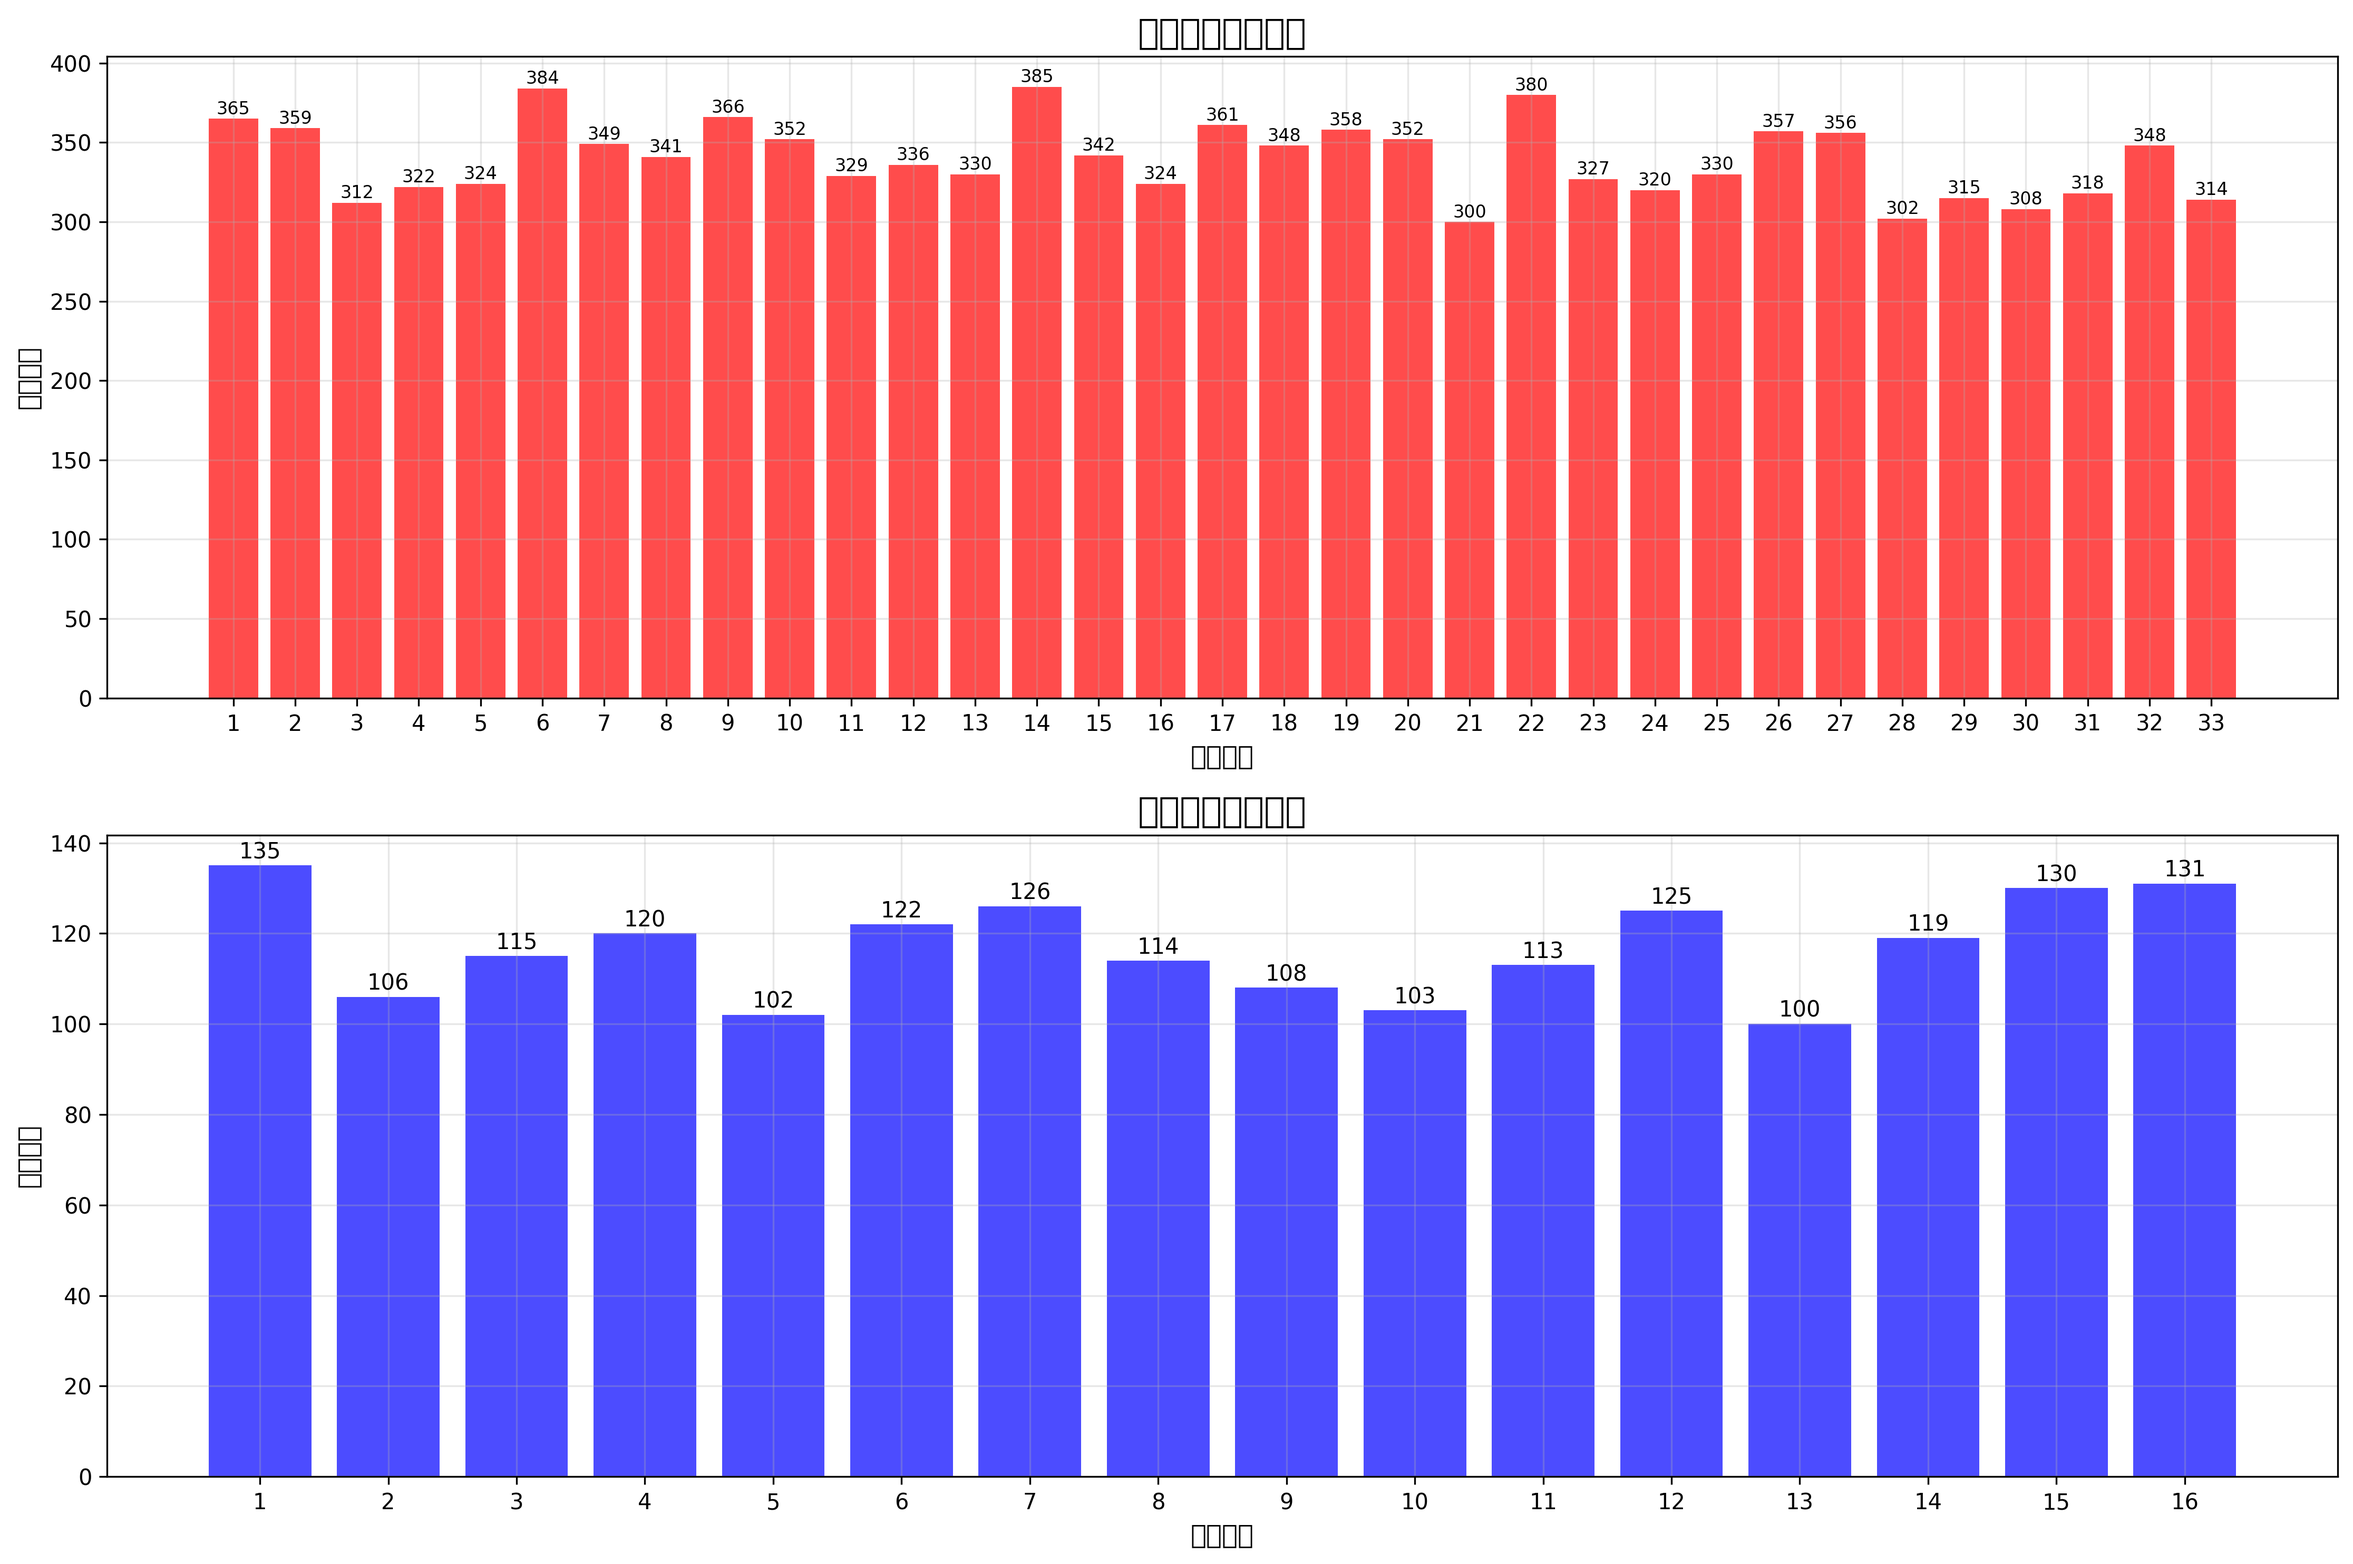
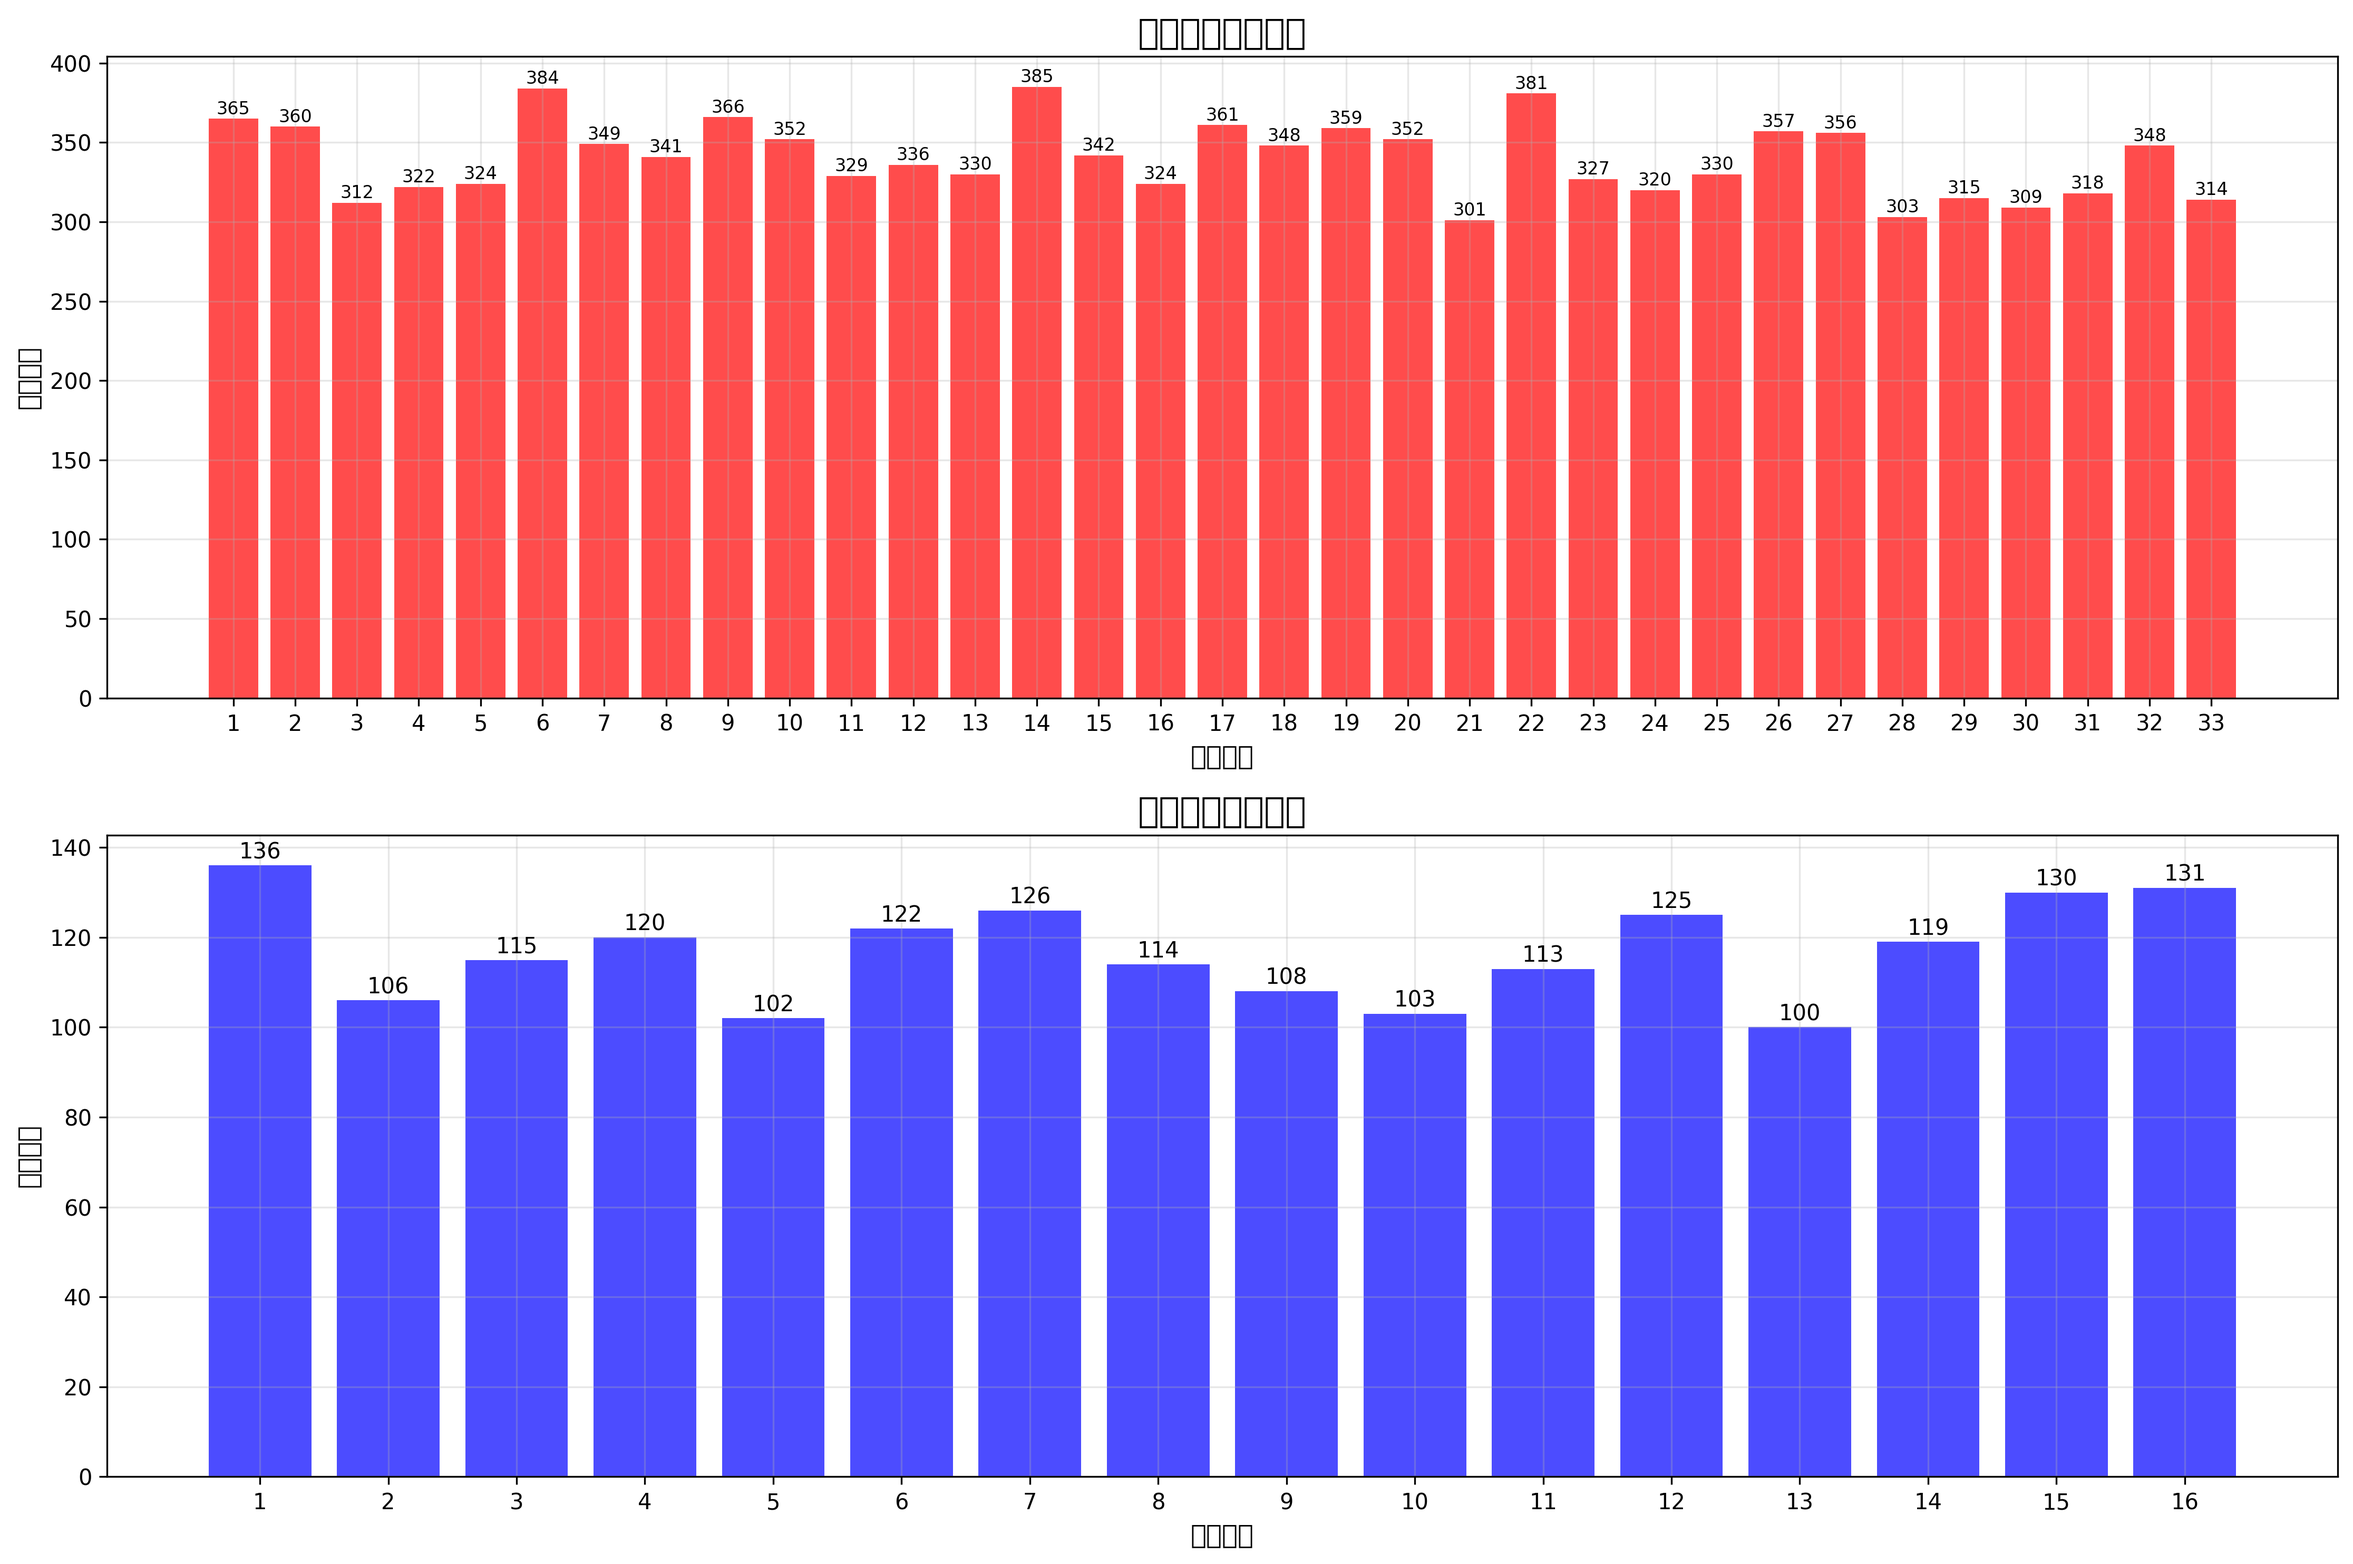
🎯 更新彩票数据和分析报告 - 2025-06-05 23:04:45 (UTC+8)

diff --git a/reports/analysis_report.md b/reports/analysis_report.md
@@ -1,9 +1,9 @@
 # 🎯 双色球数据分析报告
 
 ## 📊 报告信息
-- **生成时间**: 2025年06月04日 23:15:26 (UTC+8)
-- **数据期数**: 共 1869 期
-- **最新期号**: 2025062
+- **生成时间**: 2025年06月05日 23:04:45 (UTC+8)
+- **数据期数**: 共 1870 期
+- **最新期号**: 2025063
 - **数据来源**: 中国福利彩票官方API
 
 ## ⚠ 重要免责声明
@@ -15,6 +15,8 @@
 
 ### 最近5期开奖号码
 
+**2025063期** (2025-06-05): 02 19 21 22 28 30 + **01**
+
 **2025062期** (2025-06-03): 06 08 09 13 25 31 + **14**
 
 **2025061期** (2025-06-01): 06 07 09 10 11 32 + **09**
@@ -22,8 +24,6 @@
 **2025060期** (2025-05-29): 06 14 18 25 28 30 + **01**
 
 **2025059期** (2025-05-27): 04 10 11 12 13 24 + **01**
-
-**2025058期** (2025-05-25): 02 06 07 09 10 20 + **06**
 
 ---
 
@@ -35,12 +35,12 @@
 |------|------|----------|----------|
 | 01 | **14** | 385 | 20.6% |
 | 02 | **06** | 384 | 20.5% |
-| 03 | **22** | 380 | 20.3% |
+| 03 | **22** | 381 | 20.4% |
 | 04 | **09** | 366 | 19.6% |
 | 05 | **01** | 365 | 19.5% |
 | 06 | **17** | 361 | 19.3% |
-| 07 | **02** | 359 | 19.2% |
-| 08 | **19** | 358 | 19.2% |
+| 07 | **02** | 360 | 19.3% |
+| 08 | **19** | 359 | 19.2% |
 | 09 | **26** | 357 | 19.1% |
 | 10 | **27** | 356 | 19.0% |
 | 11 | **10** | 352 | 18.8% |
@@ -53,7 +53,7 @@
 
 | 排名 | 号码 | 出现次数 | 出现频率 |
 |------|------|----------|----------|
-| 01 | **01** | 135 | 7.2% |
+| 01 | **01** | 136 | 7.3% |
 | 02 | **16** | 131 | 7.0% |
 | 03 | **15** | 130 | 7.0% |
 | 04 | **07** | 126 | 6.7% |
@@ -61,7 +61,7 @@
 | 06 | **06** | 122 | 6.5% |
 | 07 | **04** | 120 | 6.4% |
 | 08 | **14** | 119 | 6.4% |
-| 09 | **03** | 115 | 6.2% |
+| 09 | **03** | 115 | 6.1% |
 | 10 | **08** | 114 | 6.1% |
 
 ---
@@ -72,10 +72,10 @@
 
 | 分布类型 | 出现次数 | 出现频率 |
 |----------|----------|----------|
-| 3奇3偶 | 661 | 35.4% |
+| 3奇3偶 | 661 | 35.3% |
 | 4奇2偶 | 467 | 25.0% |
-| 2奇4偶 | 446 | 23.9% |
-| 5奇1偶 | 143 | 7.7% |
+| 2奇4偶 | 447 | 23.9% |
+| 5奇1偶 | 143 | 7.6% |
 | 1奇5偶 | 112 | 6.0% |
 | 6奇0偶 | 21 | 1.1% |
 | 0奇6偶 | 19 | 1.0% |
@@ -94,8 +94,8 @@
 | 80-89 | 263 | 14.1% |
 | 90-99 | 326 | 17.4% |
 | 100-109 | 342 | 18.3% |
-| 110-119 | 302 | 16.2% |
-| 120-129 | 184 | 9.8% |
+| 110-119 | 302 | 16.1% |
+| 120-129 | 185 | 9.9% |
 | 130-139 | 95 | 5.1% |
 | 140-149 | 52 | 2.8% |
 | 150-159 | 10 | 0.5% |
@@ -111,7 +111,7 @@
 | 10-14 | 69 | 3.7% |
 | 15-19 | 265 | 14.2% |
 | 20-24 | 563 | 30.1% |
-| 25-29 | 706 | 37.8% |
+| 25-29 | 707 | 37.8% |
 | 30-34 | 262 | 14.0% |
 
 
@@ -123,6 +123,7 @@
 
 | 期号 | 开奖日期 | 红球号码 | 蓝球 |
 |------|----------|----------|------|
+| 2025063 | 2025-06-05 | 02 19 21 22 28 30 | **01** |
 | 2025062 | 2025-06-03 | 06 08 09 13 25 31 | **14** |
 | 2025061 | 2025-06-01 | 06 07 09 10 11 32 | **09** |
 | 2025060 | 2025-05-29 | 06 14 18 25 28 30 | **01** |
@@ -132,12 +133,11 @@
 | 2025056 | 2025-05-20 | 01 02 10 14 28 31 | **03** |
 | 2025055 | 2025-05-18 | 02 05 22 27 29 33 | **12** |
 | 2025054 | 2025-05-15 | 05 07 10 21 24 27 | **16** |
-| 2025053 | 2025-05-13 | 06 09 10 13 30 33 | **07** |
 
 
 ### 热号分析
 
-**最近10期红球热号（出现2次及以上）**: 02 04 05 06 07 09 10 11 13 14 24 25 27 28 30 31 33
+**最近10期红球热号（出现2次及以上）**: 02 04 05 06 07 09 10 11 13 14 21 22 24 25 27 28 30 31
 
 **最近10期蓝球热号（出现2次及以上）**: 01 14
 
@@ -222,6 +222,6 @@
 
 ---
 
-*报告生成时间: 2025年06月04日 23:15:26 (UTC+8)*  
+*报告生成时间: 2025年06月05日 23:04:45 (UTC+8)*  
 *数据来源: 中国福利彩票官方网站*  
 *仅供学习研究使用，请理性购彩*
